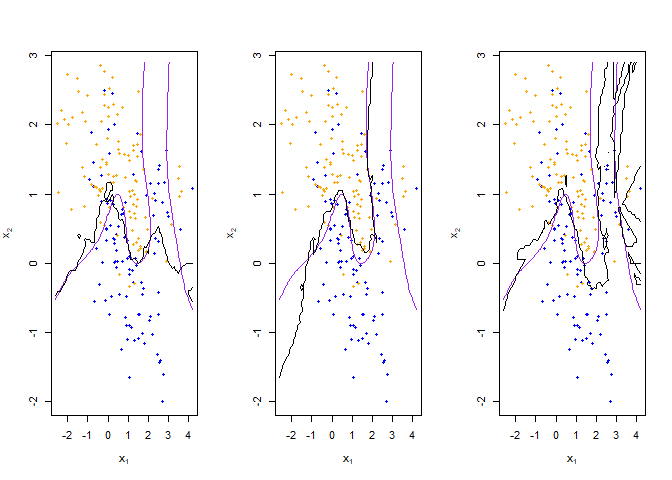
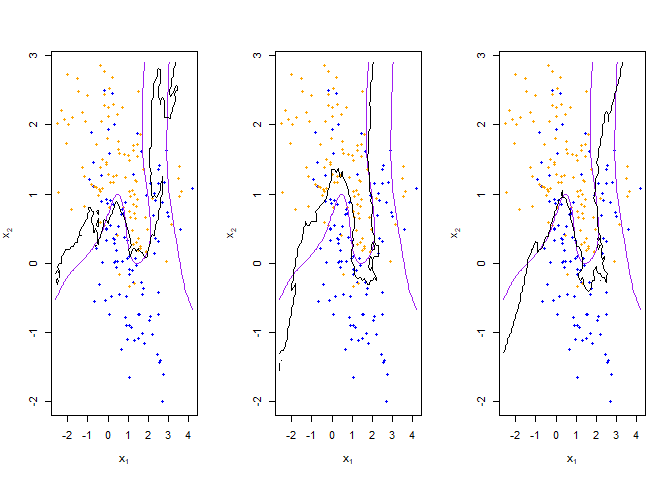
Updated HW 1

diff --git a/Homework 1/Homework-1.md b/Homework 1/Homework-1.md
@@ -21,7 +21,7 @@ terms for x1 and x2 to the linear model
 
 Describe how this more flexible model affects the bias-variance tradeoff
 
-`The more flexible model introduces higher variance and makes the bias decrease for training data.`
+`A more flexible model means the model with higher degree of freedom that can better fit various given training data. The bias-variance tradeoff enforces a tradeoff between a model's flexibility and its generalization. The bias measures how far the expectations of predicted values deviates from the true values, which characterizes the fitting ability of the learning algorithm itself. The variance measures the degree of data deviation between the expectations of predicted values and predicted values, which indicates a high variance makes data points spread out from the mean more. In this case, we apply polynomial regression by adding squared terms for x1 and x2. It adds higher powers of features, which increases the degree of freedom of the model for capturing non-linear changes in the data. When adding high-order terms, it also increases the complexity of the model. As the complexity of the model increases, the capacity of the model and the ability to fit the data increase, which can further reduce the training error, but the risk of overfitting also increases. In other words, the more flexible model introduces higher variance and makes the bias decrease for training data.`
 
 ``` r
 library('class')
